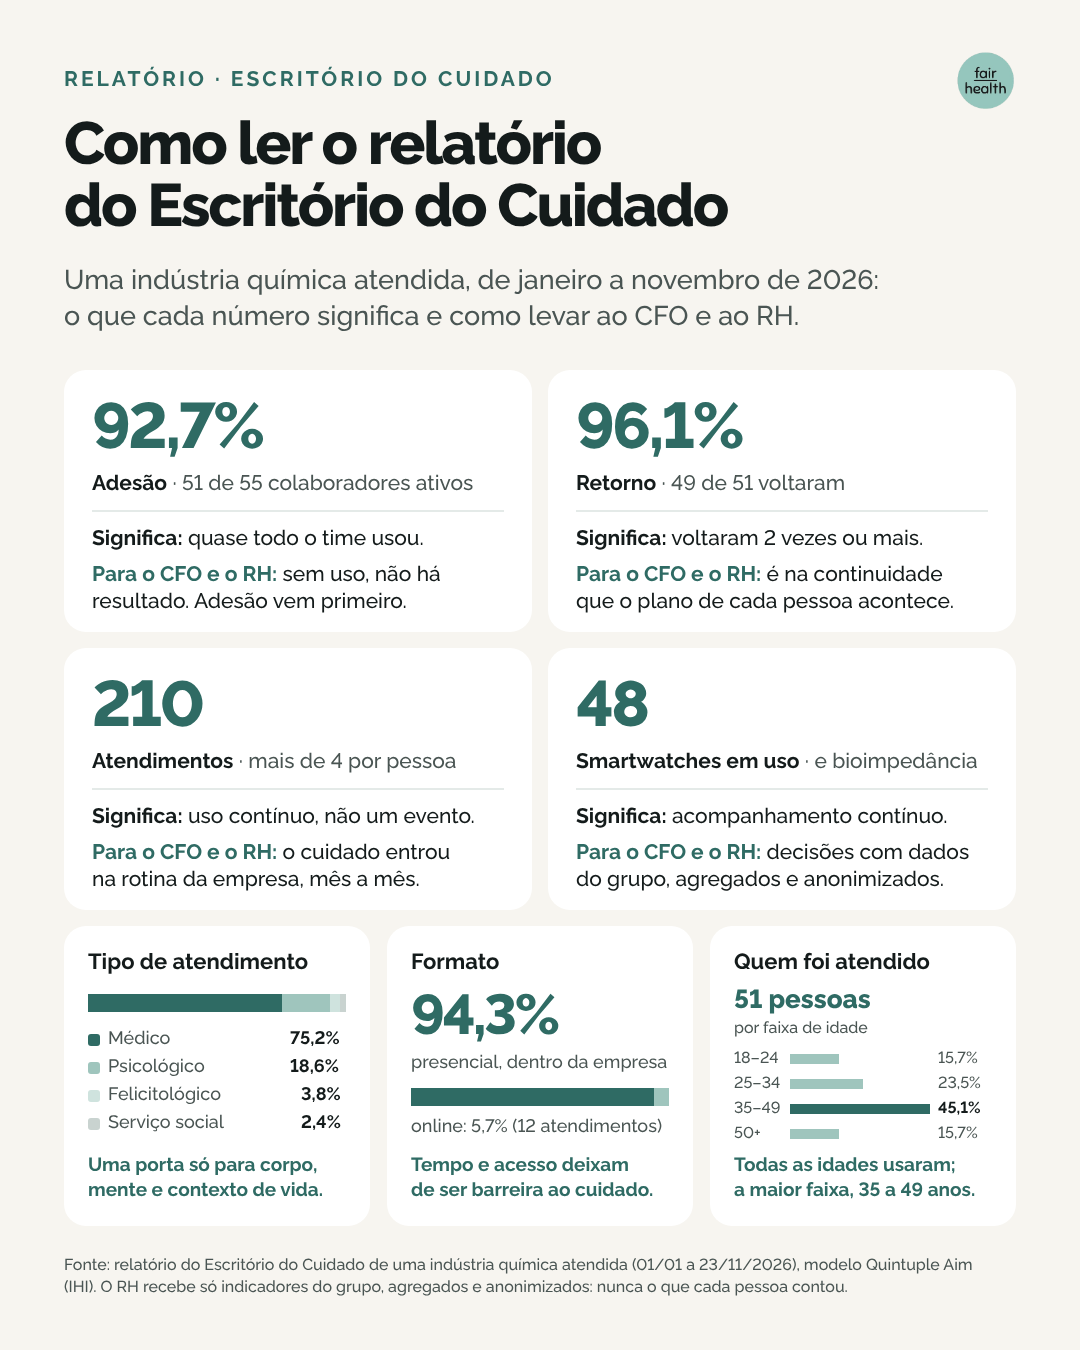
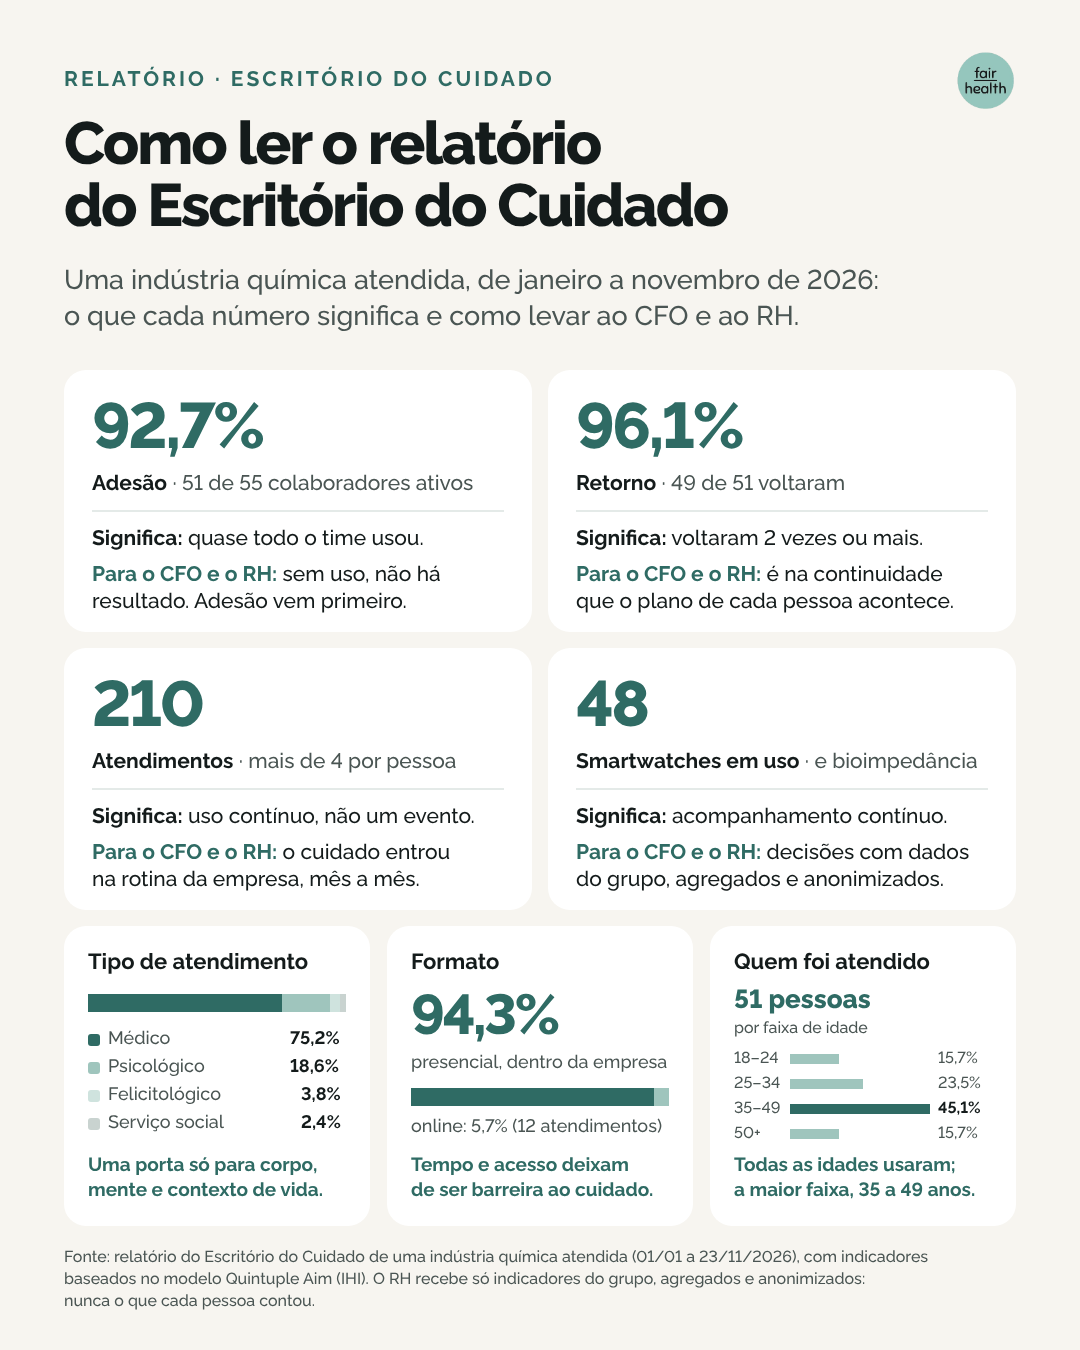
Relatório do case: "indicadores baseados no modelo Quintuple Aim" na arte e nos textos do Instagram e do LinkedIn (retorno do Dr. Ronald); turnover, absenteísmo e e-NPS guardados para janeiro
Claude-Session: https://claude.ai/code/session_01WTGmTeoCvP3mtmtt6rLzEQ

Changed region(s): [[0.0611, 0.9022, 0.8861, 0.9644]]

diff --git a/instagram/posts/case-adesao/canva.html b/instagram/posts/case-adesao/canva.html
@@ -126,6 +126,6 @@ body{background:none;margin:0}
   <p style="position:absolute;margin:0;left:734px;top:1123px;width:29px;white-space:nowrap;text-align:left;font-family:Raleway, sans-serif;font-size:16px;font-weight:500;font-style:normal;letter-spacing:normal;line-height:20.8px;color:#4a5553;text-transform:none;font-variant-numeric:lining-nums;">50+</p>
   <p style="position:absolute;margin:0;left:938px;top:1123px;width:43px;white-space:nowrap;text-align:left;font-family:Raleway, sans-serif;font-size:16px;font-weight:500;font-style:normal;letter-spacing:normal;line-height:20.8px;color:#4a5553;text-transform:none;font-variant-numeric:lining-nums;">15,7%</p>
   <p style="position:absolute;margin:0;left:734px;top:1152px;width:261px;white-space:nowrap;text-align:left;font-family:Raleway, sans-serif;font-size:19px;font-weight:600;font-style:normal;letter-spacing:normal;line-height:24.7px;color:#2f6b64;text-transform:none;font-variant-numeric:lining-nums;">Todas as idades usaram;<br>a maior faixa, 35 a 49 anos.</p>
-  <p style="position:absolute;margin:0;left:64px;top:1254px;width:982px;white-space:nowrap;text-align:left;font-family:Raleway, sans-serif;font-size:16px;font-weight:500;font-style:normal;letter-spacing:normal;line-height:22.08px;color:#4a5553;text-transform:none;font-variant-numeric:lining-nums;">Fonte: relatório do Escritório do Cuidado de uma indústria química atendida (01/01 a 23/11/2026), modelo Quintuple Aim<br>(IHI). O RH recebe só indicadores do grupo, agregados e anonimizados: nunca o que cada pessoa contou.</p>
+  <p style="position:absolute;margin:0;left:64px;top:1246px;width:934px;white-space:nowrap;text-align:left;font-family:Raleway, sans-serif;font-size:16px;font-weight:500;font-style:normal;letter-spacing:normal;line-height:22.08px;color:#4a5553;text-transform:none;font-variant-numeric:lining-nums;">Fonte: relatório do Escritório do Cuidado de uma indústria química atendida (01/01 a 23/11/2026), com indicadores<br>baseados no modelo Quintuple Aim (IHI). O RH recebe só indicadores do grupo, agregados e anonimizados:<br>nunca o que cada pessoa contou.</p>
 </section>
 </body></html>

diff --git a/instagram/posts/case-adesao/canva-src.html b/instagram/posts/case-adesao/canva-src.html
@@ -83,6 +83,6 @@ body{background:none;margin:0}
   <p style="position:absolute;margin:0;left:734px;top:1123px;width:29px;white-space:nowrap;text-align:left;font-family:Raleway, sans-serif;font-size:16px;font-weight:500;font-style:normal;letter-spacing:normal;line-height:20.8px;color:#4a5553;text-transform:none;font-variant-numeric:lining-nums;">50+</p>
   <p style="position:absolute;margin:0;left:938px;top:1123px;width:43px;white-space:nowrap;text-align:left;font-family:Raleway, sans-serif;font-size:16px;font-weight:500;font-style:normal;letter-spacing:normal;line-height:20.8px;color:#4a5553;text-transform:none;font-variant-numeric:lining-nums;">15,7%</p>
   <p style="position:absolute;margin:0;left:734px;top:1152px;width:261px;white-space:nowrap;text-align:left;font-family:Raleway, sans-serif;font-size:19px;font-weight:600;font-style:normal;letter-spacing:normal;line-height:24.7px;color:#2f6b64;text-transform:none;font-variant-numeric:lining-nums;">Todas as idades usaram;<br>a maior faixa, 35 a 49 anos.</p>
-  <p style="position:absolute;margin:0;left:64px;top:1254px;width:982px;white-space:nowrap;text-align:left;font-family:Raleway, sans-serif;font-size:16px;font-weight:500;font-style:normal;letter-spacing:normal;line-height:22.08px;color:#4a5553;text-transform:none;font-variant-numeric:lining-nums;">Fonte: relatório do Escritório do Cuidado de uma indústria química atendida (01/01 a 23/11/2026), modelo Quintuple Aim<br>(IHI). O RH recebe só indicadores do grupo, agregados e anonimizados: nunca o que cada pessoa contou.</p>
+  <p style="position:absolute;margin:0;left:64px;top:1246px;width:934px;white-space:nowrap;text-align:left;font-family:Raleway, sans-serif;font-size:16px;font-weight:500;font-style:normal;letter-spacing:normal;line-height:22.08px;color:#4a5553;text-transform:none;font-variant-numeric:lining-nums;">Fonte: relatório do Escritório do Cuidado de uma indústria química atendida (01/01 a 23/11/2026), com indicadores<br>baseados no modelo Quintuple Aim (IHI). O RH recebe só indicadores do grupo, agregados e anonimizados:<br>nunca o que cada pessoa contou.</p>
 </section>
 </body></html>

diff --git a/instagram/posts/case-adesao/slides.html b/instagram/posts/case-adesao/slides.html
@@ -100,6 +100,6 @@ body{background:none;margin:0}
   <p class="a lei" style="left:734px;top:1152px">Todas as idades usaram;<br>a maior faixa, 35 a 49 anos.</p>
 
   <!-- fonte -->
-  <p class="a" style="left:64px;top:1254px;font-size:16px;font-weight:500;line-height:1.38;color:var(--cinza)">Fonte: relatório do Escritório do Cuidado de uma indústria química atendida (01/01 a 23/11/2026), modelo Quintuple Aim<br>(IHI). O RH recebe só indicadores do grupo, agregados e anonimizados: nunca o que cada pessoa contou.</p>
+  <p class="a" style="left:64px;top:1246px;font-size:16px;font-weight:500;line-height:1.38;color:var(--cinza)">Fonte: relatório do Escritório do Cuidado de uma indústria química atendida (01/01 a 23/11/2026), com indicadores<br>baseados no modelo Quintuple Aim (IHI). O RH recebe só indicadores do grupo, agregados e anonimizados:<br>nunca o que cada pessoa contou.</p>
 </section>
 </body></html>

diff --git a/marketing/ferramentas/conteudo_posts_novembro.py b/marketing/ferramentas/conteudo_posts_novembro.py
@@ -441,7 +441,7 @@ Comente CUIDADO e mostramos como funciona na sua empresa.
   material='Relatório real do Escritório do Cuidado (print enviado pela Nina em 23/11). Sem foto. Logo da Chemitec só com autorização.',
   cta='Comente CUIDADO (como funciona o Escritório do Cuidado)',
   stories='Sequência com os 4 números e o adesivo "Mande uma mensagem".',
-  fonte='Relatório do Escritório do Cuidado da Chemitec, 01/01 a 23/11/2026 (PDF da Nina, 23/11), modelo Quintuple Aim (IHI): 51 colaboradores atendidos (adesão de 92,7% de 55 ativos); 210 atendimentos (198 presenciais, 94,3%; 12 online, 5,7%); por tipo: médico 75,2%, psicológico 18,6%, felicitológico 3,8%, serviço social 2,4%; 48 smartbands; faixas 18–24 15,7% (8), 25–34 23,5% (12), 35–49 45,1% (23), 50+ 15,7% (8); retorno 96,1% (49 de 51 com 2 ou mais atendimentos). O gênero veio vazio (0% e 0%, "outros" 100%) e ficou fora. Sempre agregado.',
+  fonte='Relatório do Escritório do Cuidado da Chemitec, 01/01 a 23/11/2026 (PDF da Nina, 23/11), indicadores baseados no modelo Quintuple Aim (IHI): 51 colaboradores atendidos (adesão de 92,7% de 55 ativos); 210 atendimentos (198 presenciais, 94,3%; 12 online, 5,7%); por tipo: médico 75,2%, psicológico 18,6%, felicitológico 3,8%, serviço social 2,4%; 48 smartbands; faixas 18–24 15,7% (8), 25–34 23,5% (12), 35–49 45,1% (23), 50+ 15,7% (8); retorno 96,1% (49 de 51 com 2 ou mais atendimentos). O gênero veio vazio (0% e 0%, "outros" 100%) e ficou fora. Sempre agregado.',
   validar='Sócios: o case sai e pode citar o nome Chemitec? (decisão de 30/10; autorização escrita do cliente). Sem isso, "uma indústria química atendida". Os números do relatório de 23/11 substituem os anteriores (1º semestre e jan a set).',
   arquivos='instagram/posts/case-adesao/ (slides.html, png/relatorio.png, previa.png, legenda.txt, canva.html, README). O carrossel de 8 slides ficou como v1.',
   legenda='''Como ler o relatório do Escritório do Cuidado? Os números de uma indústria química atendida, de janeiro a novembro de 2026.
@@ -452,7 +452,7 @@ Retorno de 96,1%. Das 51 pessoas, 49 voltaram para dois ou mais atendimentos, nu
 
 Quase tudo foi presencial: 94,3% dos atendimentos aconteceram dentro da empresa, com médico, psicólogo, felicitologista e assistente social no mesmo lugar, 48 smartwatches em uso e bioimpedância nas consultas. Todas as idades usaram.
 
-O RH recebe só indicadores do grupo, agregados e anonimizados. Nunca o que cada pessoa contou.
+O RH recebe só indicadores do grupo, agregados e anonimizados, baseados no modelo Quintuple Aim, do Institute for Healthcare Improvement. Nunca o que cada pessoa contou.
 
 Quer ver como funciona na sua empresa? Comente CUIDADO.
 
@@ -461,7 +461,7 @@ Quer ver como funciona na sua empresa? Comente CUIDADO.
    ('Imagem única 4:5', 'Relatório · Escritório do Cuidado\nComo ler o relatório do Escritório do Cuidado\nUma indústria química atendida, de janeiro a novembro de 2026: o que cada número significa e como levar ao CFO e ao RH.', '', 'Cabeçalho com o logo.', ''),
    ('Números', '92,7% · Adesão (51 de 55 ativos). Significa: quase todo o time usou. Para o CFO e o RH: sem uso, não há resultado. Adesão vem primeiro.\n96,1% · Retorno (49 de 51 voltaram). Significa: voltaram 2 vezes ou mais. Para o CFO e o RH: é na continuidade que o plano de cada pessoa acontece.\n210 · Atendimentos (mais de 4 por pessoa). Significa: uso contínuo, não um evento. Para o CFO e o RH: o cuidado entrou na rotina da empresa, mês a mês.\n48 · Smartwatches em uso e bioimpedância. Significa: acompanhamento contínuo. Para o CFO e o RH: decisões com dados do grupo, agregados e anonimizados.', '', 'Quatro cartões brancos, número no verde da marca.', ''),
    ('Painéis', 'Tipo de atendimento: médico 75,2% · psicológico 18,6% · felicitológico 3,8% · serviço social 2,4%. Uma porta só para corpo, mente e contexto de vida.\nFormato: 94,3% presencial, dentro da empresa (online 5,7%, 12 atendimentos). Tempo e acesso deixam de ser barreira ao cuidado.\nQuem foi atendido: 51 pessoas; 18–24 15,7% · 25–34 23,5% · 35–49 45,1% · 50+ 15,7%. Todas as idades usaram.', '', 'Barras em verde, Tiffany e menta.', ''),
-   ('Rodapé', 'Fonte: relatório do Escritório do Cuidado de uma indústria química atendida (01/01 a 23/11/2026), modelo Quintuple Aim (IHI). O RH recebe só indicadores do grupo, agregados e anonimizados: nunca o que cada pessoa contou.', '', '', 'Nome do cliente só com autorização.'),
+   ('Rodapé', 'Fonte: relatório do Escritório do Cuidado de uma indústria química atendida (01/01 a 23/11/2026), com indicadores baseados no modelo Quintuple Aim (IHI). O RH recebe só indicadores do grupo, agregados e anonimizados: nunca o que cada pessoa contou.', '', '', 'Nome do cliente só com autorização.'),
   ]),
 
  dict(id='S01', data=D(30), semana=5, bloco='7 · Causas', eixo='Notícias + Institucional', fmt=REEL,

diff --git a/marketing/ferramentas/conteudo_posts_linkedin_dezembro.py b/marketing/ferramentas/conteudo_posts_linkedin_dezembro.py
@@ -109,15 +109,15 @@ O que mais dificulta o cuidado com a saúde no dia a dia da sua empresa?
   roteiro=[
    ('Imagem', 'A arte do relatório do Instagram de 27/11 (1080 × 1350): linkedin/posts/relatorio-case/relatorio-linkedin.png', '', '', 'A mesma do Instagram.'),
    (PRIM, 'Programa de bem-estar que ninguém usa é custo, não cuidado. Por isso, o primeiro número que o CFO e o RH deveriam olhar é a adesão.', '', '', ''),
-   (DESE, 'Relatório de uma indústria química atendida (01/01 a 23/11/2026, modelo Quintuple Aim, IHI), número a número: 92,7% de adesão (51 de 55 ativos); 96,1% de retorno (49 de 51), "vir uma vez pode ser curiosidade, voltar é sinal de que o cuidado fez sentido"; 210 atendimentos, mais de 4 por pessoa; 94,3% presenciais; médico, psicólogo, felicitologista e assistente social, bioimpedância e 48 smartwatches. O RH recebe só indicadores do grupo.', '', '', ''),
+   (DESE, 'Relatório de uma indústria química atendida (01/01 a 23/11/2026, indicadores baseados no modelo Quintuple Aim, IHI), número a número: 92,7% de adesão (51 de 55 ativos); 96,1% de retorno (49 de 51), "vir uma vez pode ser curiosidade, voltar é sinal de que o cuidado fez sentido"; 210 atendimentos, mais de 4 por pessoa; 94,3% presenciais; médico, psicólogo, felicitologista e assistente social, bioimpedância e 48 smartwatches. O RH recebe só indicadores do grupo.', '', '', ''),
    (CHAM, 'Na sua empresa, qual indicador mostra hoje se o programa de saúde está sendo usado?', '', '', 'Uma chamada só.'),
    (COM, 'Sem link neste post.', '', '', ''),
    (TIME, '"Voltar é o número de que mais me orgulho este ano."', '', '', ''),
-   (FONTE, 'Relatório do Escritório do Cuidado de uma indústria química atendida, 01/01 a 23/11/2026 (modelo Quintuple Aim, IHI). Sempre agregado; sem gênero (veio vazio).', '', '', ''),
+   (FONTE, 'Relatório do Escritório do Cuidado de uma indústria química atendida, 01/01 a 23/11/2026 (indicadores baseados no modelo Quintuple Aim, IHI). Sempre agregado; sem gênero (veio vazio).', '', '', ''),
   ],
   legenda='''Programa de bem-estar que ninguém usa é custo, não cuidado. Por isso, o primeiro número que o CFO e o RH deveriam olhar é a adesão.
 
-Este é o relatório do Escritório do Cuidado de uma indústria química que atendemos, de janeiro a novembro de 2026, com os indicadores do modelo Quintuple Aim, do Institute for Healthcare Improvement. E o que cada número diz para quem decide:
+Este é o relatório do Escritório do Cuidado de uma indústria química que atendemos, de janeiro a novembro de 2026, com indicadores baseados no modelo Quintuple Aim, do Institute for Healthcare Improvement. E o que cada número diz para quem decide:
 
 → 92,7% de adesão: 51 de 55 colaboradores ativos foram atendidos. O cuidado chegou a quase todo o time.
 → 96,1% de retorno: 49 das 51 pessoas voltaram para dois ou mais atendimentos. Vir uma vez pode ser curiosidade. Voltar é sinal de que o cuidado fez sentido.

diff --git a/marketing/pautas-janeiro-2027.md b/marketing/pautas-janeiro-2027.md
@@ -1,0 +1,34 @@
+# Pautas guardadas para janeiro de 2027
+
+## Resultados do ano do Escritório do Cuidado: turnover, absenteísmo e e-NPS (Instagram e LinkedIn)
+
+**Origem (24/11):** retorno do Dr. Ronald e do Fernando ao post do relatório do case (27/11 no Instagram, 25/11 no LinkedIn).
+O Dr. Ronald lembrou que, se os indicadores são baseados no modelo Quintuple Aim, o relatório também deveria mostrar os
+indicadores de "moral do RH": turnover, absenteísmo e aumento do e-NPS. O Fernando confirmou que esses dados vão existir,
+mas a empresa ainda está fechando o ano.
+
+- **Ideia:** a continuação do post de 27/11, na mesma estética de relatório (cartões brancos sobre papel, números no verde
+  da marca), com o que cada número significa e como levar ao CFO e ao RH. Pode ser o post mais forte para CFO e RH, porque
+  mostra resultado para a empresa, e não só uso (adesão, retorno, atendimentos).
+- **Os três indicadores:**
+  - Turnover: a rotatividade, quantas pessoas saíram da empresa no período.
+  - Absenteísmo: as faltas e os afastamentos, quanto tempo de trabalho se perdeu com ausências.
+  - e-NPS (employee Net Promoter Score): o quanto os colaboradores recomendariam a empresa como lugar para trabalhar
+    (nota de 0 a 10; promotores menos detratores). "Aumento do e-NPS" é a nota subir no período.
+- **Quintuple Aim (IHI):** melhor experiência de quem é cuidado, melhor saúde do grupo, menor custo, bem-estar de quem
+  trabalha e equidade. Turnover, absenteísmo e e-NPS falam de custo e de bem-estar do time.
+- **Antes de fazer:**
+  - Números com o Fernando no fechamento do ano, com o período e a comparação (antes x depois do Escritório do Cuidado, ou
+    contra o ano anterior). Sem comparação com fonte, não há "redução".
+  - Liberação dos sócios para dados de cliente (decisão de 30/10); o nome Chemitec só com autorização escrita.
+  - Cuidado com causalidade: mostrar o que mudou no período, sem prometer que o cuidado causou a mudança (regras do CFM e da
+    marca: sem promessa de resultado).
+- **Arquivos de base:** `instagram/posts/case-adesao/` (arte e legenda do relatório) e `linkedin/posts/relatorio-case/`.
+
+## Outras pautas guardadas
+
+- Carrossel "Por que as pessoas pedem demissão?" (era de 30/11): `GUARDADOS` em
+  `marketing/ferramentas/conteudo_posts_novembro.py`. Falta a pesquisa dos motivos, com percentuais e fonte.
+- Carrossel das 9 dimensões da Felicidade Interna Bruta: `instagram/posts/felicidade-medida/` (arte pronta, fora do
+  calendário). Pode acompanhar o corte 2 do podcast (16/12) ou entrar em janeiro.
+- Referência "Everyone needs someone in their corner" (`instagram/inspiracoes-dezembro.md`).

diff --git a/instagram/posts/case-adesao/README.md b/instagram/posts/case-adesao/README.md
@@ -35,6 +35,12 @@ cada número com o que significa para o CFO e o RH."
 `slides-v1-carrossel.html`, `png-v1-carrossel/`, `previa-v1-carrossel.png`, `legenda-v1-carrossel.txt`, `canva-v1-carrossel.html`
 (números do 1º semestre). A capa usava `fotos/capa.jpg` (`gerar.py`).
 
+## Retorno do Dr. Ronald e do Fernando (24/11)
+
+- O texto passou a dizer "indicadores baseados no modelo Quintuple Aim" (expressão do Dr. Ronald) no rodapé da arte, na
+  legenda e no LinkedIn: o relatório mostra uso e vínculo, não o modelo inteiro.
+- Próximo passo, para janeiro: turnover, absenteísmo e e-NPS no fechamento do ano (`marketing/pautas-janeiro-2027.md`).
+
 ## Pendências
 
 - Sócios: o case sai? Com ou sem o nome Chemitec?

diff --git a/linkedin/posts/relatorio-case/README.md b/linkedin/posts/relatorio-case/README.md
@@ -15,3 +15,7 @@ Post 8 do cronograma do LinkedIn (`marketing/ferramentas/conteudo_posts_linkedin
 
 Dados: relatório do Escritório do Cuidado de uma indústria química atendida, 01/01 a 23/11/2026 (modelo Quintuple Aim, IHI),
 sempre agregados. Sem o nome do cliente até os sócios liberarem (decisão de 30/10).
+
+**24/11 (retorno do Dr. Ronald e do Fernando):** "indicadores baseados no modelo Quintuple Aim" no texto e no rodapé da arte.
+A continuação, com turnover, absenteísmo e e-NPS, fica para janeiro (`marketing/pautas-janeiro-2027.md`).
+
